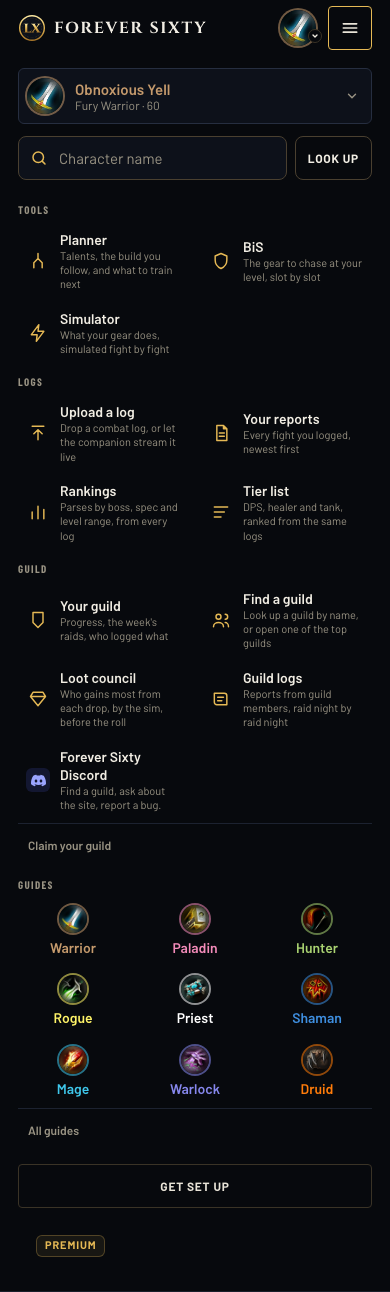
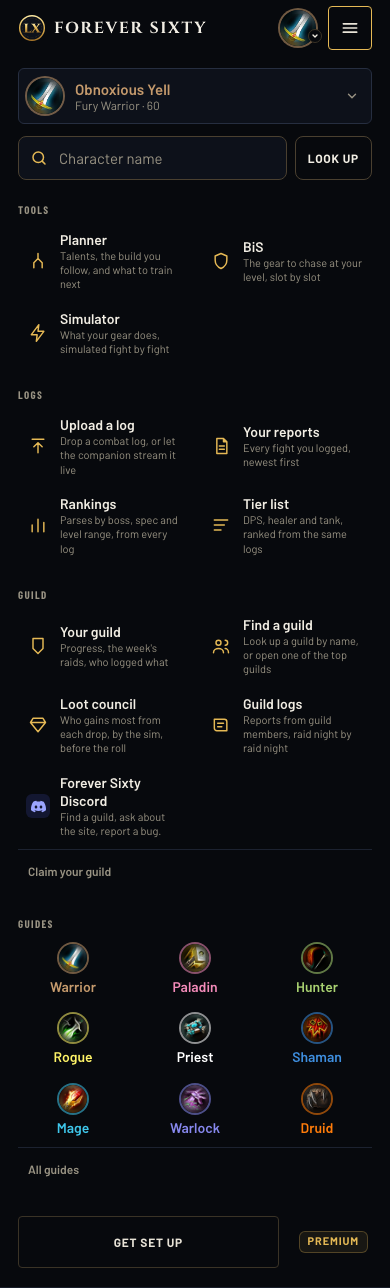
fix(web): the phone Menu's Premium tag shares the Get set up row, right-aligned
Wow-player ruling: the pill alone at the bottom looked stranded. Get set up
stays at the left, the tag sits at the row's right, 52 px, without a chevron;
for a Premium account Get set up keeps the whole row. Spec section 5 updated.

diff --git a/web/tests/e2e/premium-entry.spec.ts b/web/tests/e2e/premium-entry.spec.ts
@@ -237,25 +237,36 @@ test.describe('the bar widths', () => {
 test.describe('the phone Menu row', () => {
   test.use({ viewport: { width: 390, height: 844 } });
 
-  test('free: Premium is the last row, 52 px, the tag at the left and no chevron', async ({ page }) => {
+  test('free: the tag shares the last row with Get set up, right-aligned, 52 px, no chevron', async ({
+    page,
+  }) => {
     await signIn(page, FREE_ME);
     await page.goto('/');
     await page.getByTestId('menu-button').click();
     await expect(tag(page)).toBeVisible();
     await expect(page.locator('#primary-nav > :last-child')).toHaveAttribute('data-door', 'premium');
+    const setup = (await page.locator('#primary-nav [data-door="setup"]').boundingBox())!;
     const row = (await tag(page).boundingBox())!;
-    const pill = (await tag(page).locator('.pill').boundingBox())!;
+    const menu = (await page.getByTestId('primary-nav').boundingBox())!;
+    // One row: the same top and height, Get set up at the menu's left edge, the tag at its right.
+    expect(Math.abs(row.y - setup.y)).toBeLessThanOrEqual(1);
     expect(row.height).toBeGreaterThanOrEqual(MENU_ROW_MIN);
-    expect(pill.x - row.x).toBeLessThan(24);
+    expect(setup.height).toBeGreaterThanOrEqual(MENU_ROW_MIN);
+    expect(Math.abs(setup.x - menu.x)).toBeLessThanOrEqual(1);
+    expect(Math.abs(row.x + row.width - (menu.x + menu.width))).toBeLessThanOrEqual(1);
+    expect(setup.x + setup.width).toBeLessThan(row.x);
     await expect(tag(page).locator('svg')).toHaveCount(0);
   });
 
-  test('Premium: no row', async ({ page }) => {
+  test('Premium: no tag; Get set up keeps the whole row', async ({ page }) => {
     await storeHint(page, 'own');
     await signIn(page, GRANT_ME);
     await page.goto('/');
     await page.getByTestId('menu-button').click();
     await expect(tag(page)).toBeHidden();
+    const setup = (await page.locator('#primary-nav [data-door="setup"]').boundingBox())!;
+    const menu = (await page.getByTestId('primary-nav').boundingBox())!;
+    expect(Math.abs(setup.width - menu.width)).toBeLessThanOrEqual(1);
   });
 });
 

diff --git a/design/specs/2026-10-29-premium-entry.md b/design/specs/2026-10-29-premium-entry.md
@@ -24,7 +24,7 @@ Mocks: `design/mocks/2026-10-29-premium-entry/`. The generator `gen_premium_entr
 | Viewer | Question | Answer with no scroll |
 |---|---|---|
 | Signed out or free, 1024 to 2000 | “What do I get if I pay, and is the free site complete?” | The `Premium` tag at the right end of the doors. One click lands on `/premium`, whose band says `Everything a player needs is free, and the free list never shrinks.` |
-| Free, 360 | Same | The Menu sheet's last row is the `Premium` tag. The account sheet's `Plan` row reads `Free` with `See plans`. |
+| Free, 360 | Same | The Menu sheet's last row is `Get set up` with the `Premium` tag at its right. The account sheet's `Plan` row reads `Free` with `See plans`. |
 | Free, on a report, the sim or guild billing | “What would Premium do for this?” | The link beside the feature opens `/premium` with that feature's line highlighted at one third of the viewport. |
 | Premium from any source | Nothing to ask | No tag, no `See plans`, no contextual link. The plan row shows the plan as today. |
 
@@ -78,7 +78,7 @@ CLS on the bar stays 0. The Lighthouse budget (`cumulative-layout-shift` 0.05, `
 
 Board: `renders/premium-entry-phone.png`.
 
-The Menu keeps search, the four doors and `Get set up` (polish §1.3). The `Premium` link is its last row, after `Get set up`. Row: 52 px minimum, 18 px side padding, the `.pill.pill-site` tag `Premium` at the left and nothing at the right: no chevron (the tag is the row's whole content). The whole row is the link. Hover and active: `--row-hover` ground. Focus-visible: 2 px gold ring, inset 2 px. The same pre-paint rule hides the row. It is the same element as the bar's tag; `Header.astro`'s style restyles it below 1024.
+The Menu keeps search, the four doors and `Get set up` (polish §1.3). The `Premium` link shares the Menu's last row with `Get set up` (wow-player ruling, 2026-10-29: a pill alone at the bottom looked stranded). `Get set up` stays at the left as it was, its bordered box filling the row; the `.pill.pill-site` tag `Premium` is right-aligned in the same row, 12 px after it, with no chevron. The row is 52 px. The tag's link is its own target (the whole tag box, 52 px tall). Hover and active: `--row-hover` ground on the tag's box. Focus-visible: 2 px gold ring, inset 2 px. The same pre-paint rule hides the tag, and then `Get set up` takes the whole row. It is the same element as the bar's tag; `Header.astro`'s style restyles it below 1024.
 
 ## 6. The account panel's Plan row
 
@@ -149,7 +149,7 @@ No other string changes.
 
 ## 11. Phone and desktop
 
-Never collapses: the tag at every desktop width from 1024 for a free or signed-out viewer; the Menu row; `See plans` on a free Plan row at every width. Below 1024 it is the Menu's last row. At 2000 the tag sits inside the 1344 column with the doors, never at the window edge.
+Never collapses: the tag at every desktop width from 1024 for a free or signed-out viewer; the Menu's `Get set up` row; `See plans` on a free Plan row at every width. Below 1024 it is right-aligned in the Menu's `Get set up` row. At 2000 the tag sits inside the 1344 column with the doors, never at the window edge.
 
 ## 12. Acceptance (screenshots the implementer attaches)
 
@@ -162,7 +162,7 @@ Never collapses: the tag at every desktop width from 1024 for a free or signed-o
 | A5 | 1024 | signed in as a 15-character name: the tag in the bar, no overflow, no wrap |
 | A6 | 1024 and 1100 | free and signed out: the tag in the bar after `Get set up`, no overflow |
 | A7 | 1440 | tag hover, focus-visible and current (`/premium`) |
-| A8 | 390 and 360 | free: Menu open with the `Premium` row last, no chevron; account sheet with `See plans` |
+| A8 | 390 and 360 | free: Menu open with the `Premium` tag right-aligned in the `Get set up` row, no chevron; account sheet with `See plans` |
 | A9 | 390 | Premium: Menu with no `Premium` row |
 | A10 | 1440 and 390 | `/premium#coach`, `#server-sims` (three lines tinted), `#premium` landings |
 | A11 | 1440 | `/sim` free signed in: the muted `Run on our servers · Premium plan` link, quieter than `Run sim`; Premium: today's button |
@@ -177,7 +177,7 @@ Checklist:
 - [ ] Hidden for own, seat, grant and fallback; shown signed out and free.
 - [ ] Hidden before first paint from the hint; `hold` (visibility) after paint; never a `display` toggle after paint.
 - [ ] `/premium`'s duplicate `data-premium` head script deleted; Base owns it.
-- [ ] Menu row last, 52 px, the tag at the left, no chevron.
+- [ ] Menu: the tag right-aligned in the `Get set up` row, 52 px, no chevron.
 - [ ] Plan row `See plans` only for `none`; one link; href `/premium#premium`.
 - [ ] Every link in §7 carries its anchor; sim `Get premium` replaced.
 - [ ] Anchors in §8 exist; highlight changes no box; no new JavaScript on `/premium`.
@@ -196,7 +196,7 @@ Checklist:
 |---|---|---|
 | `renders/premium-entry-header-1440.png` | 1440 | signed out, free and Premium bars; the tag's hover, focus and current states (the board predates the persona round: the build's default tag is quieter, and the Plan row reads `See plans`) |
 | `renders/premium-entry-header-2000.png` | 2000 | the tag inside the centred column |
-| `renders/premium-entry-phone.png` | 390 | Menu free and Premium; the account sheet free (the board predates the persona round: the build has no chevron on the Menu row and reads `See plans`) |
+| `renders/premium-entry-phone.png` | 390 | Menu free and Premium; the account sheet free (the board predates the persona round: the build puts the tag at the right of the `Get set up` row, with no chevron, and reads `See plans`) |
 | `renders/premium-entry-account-1440.png` | 1440 | the account panel free beside Premium |
 | `renders/premium-entry-upsell-1440.png` | 1440 | the sim run control free and Premium (superseded for free: a muted text link, §7); the `/premium#server-sims` landing |
 
